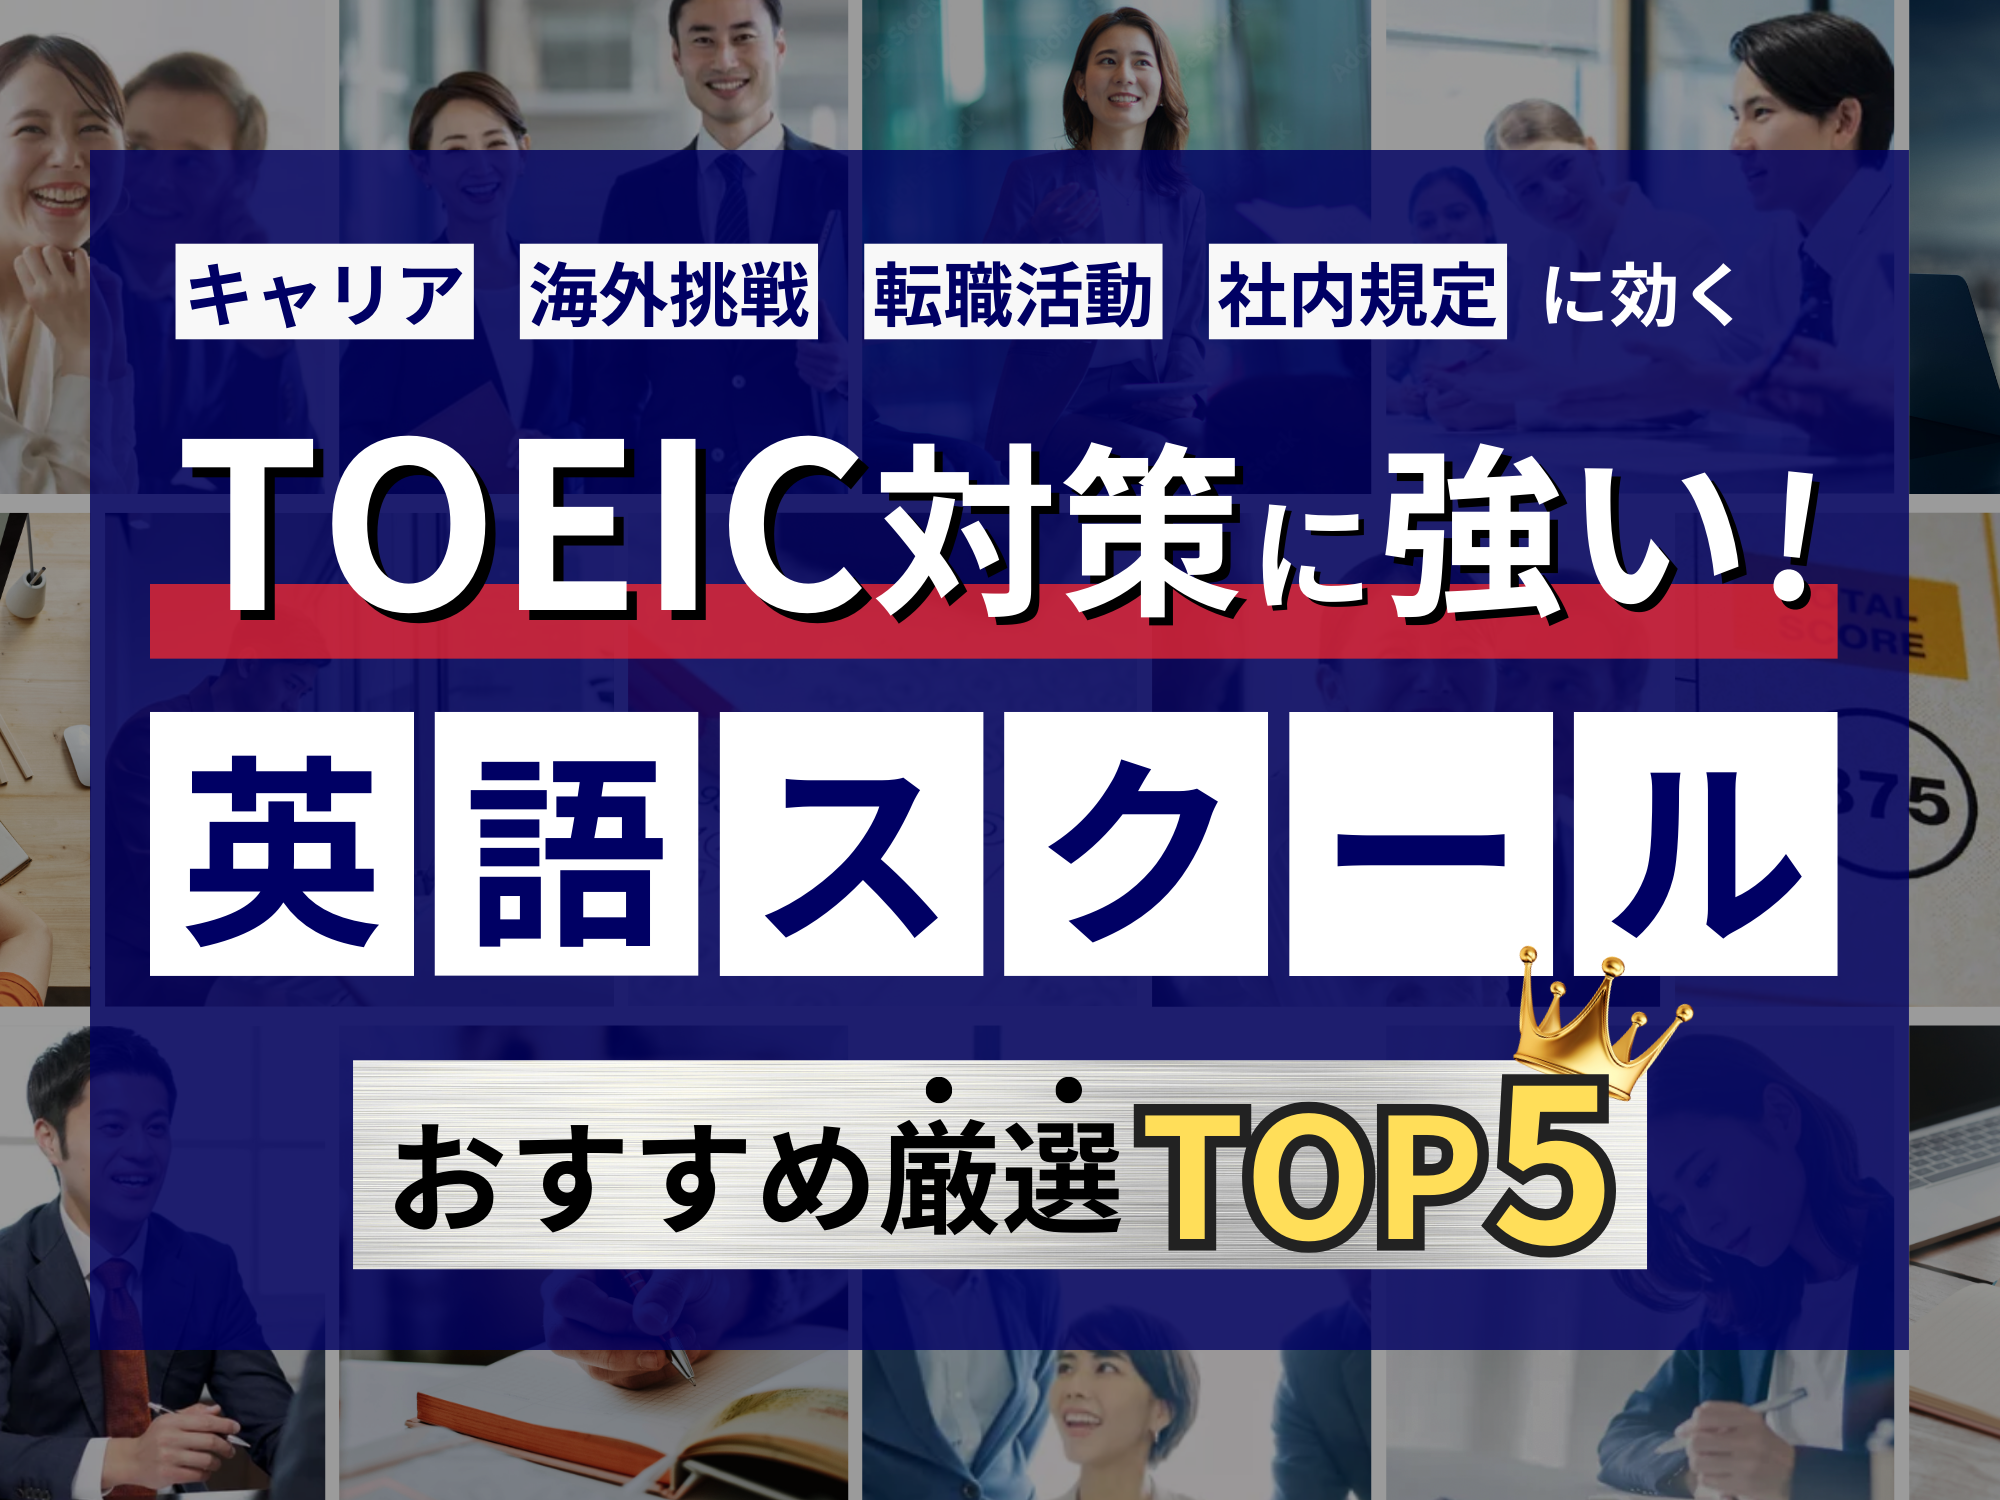
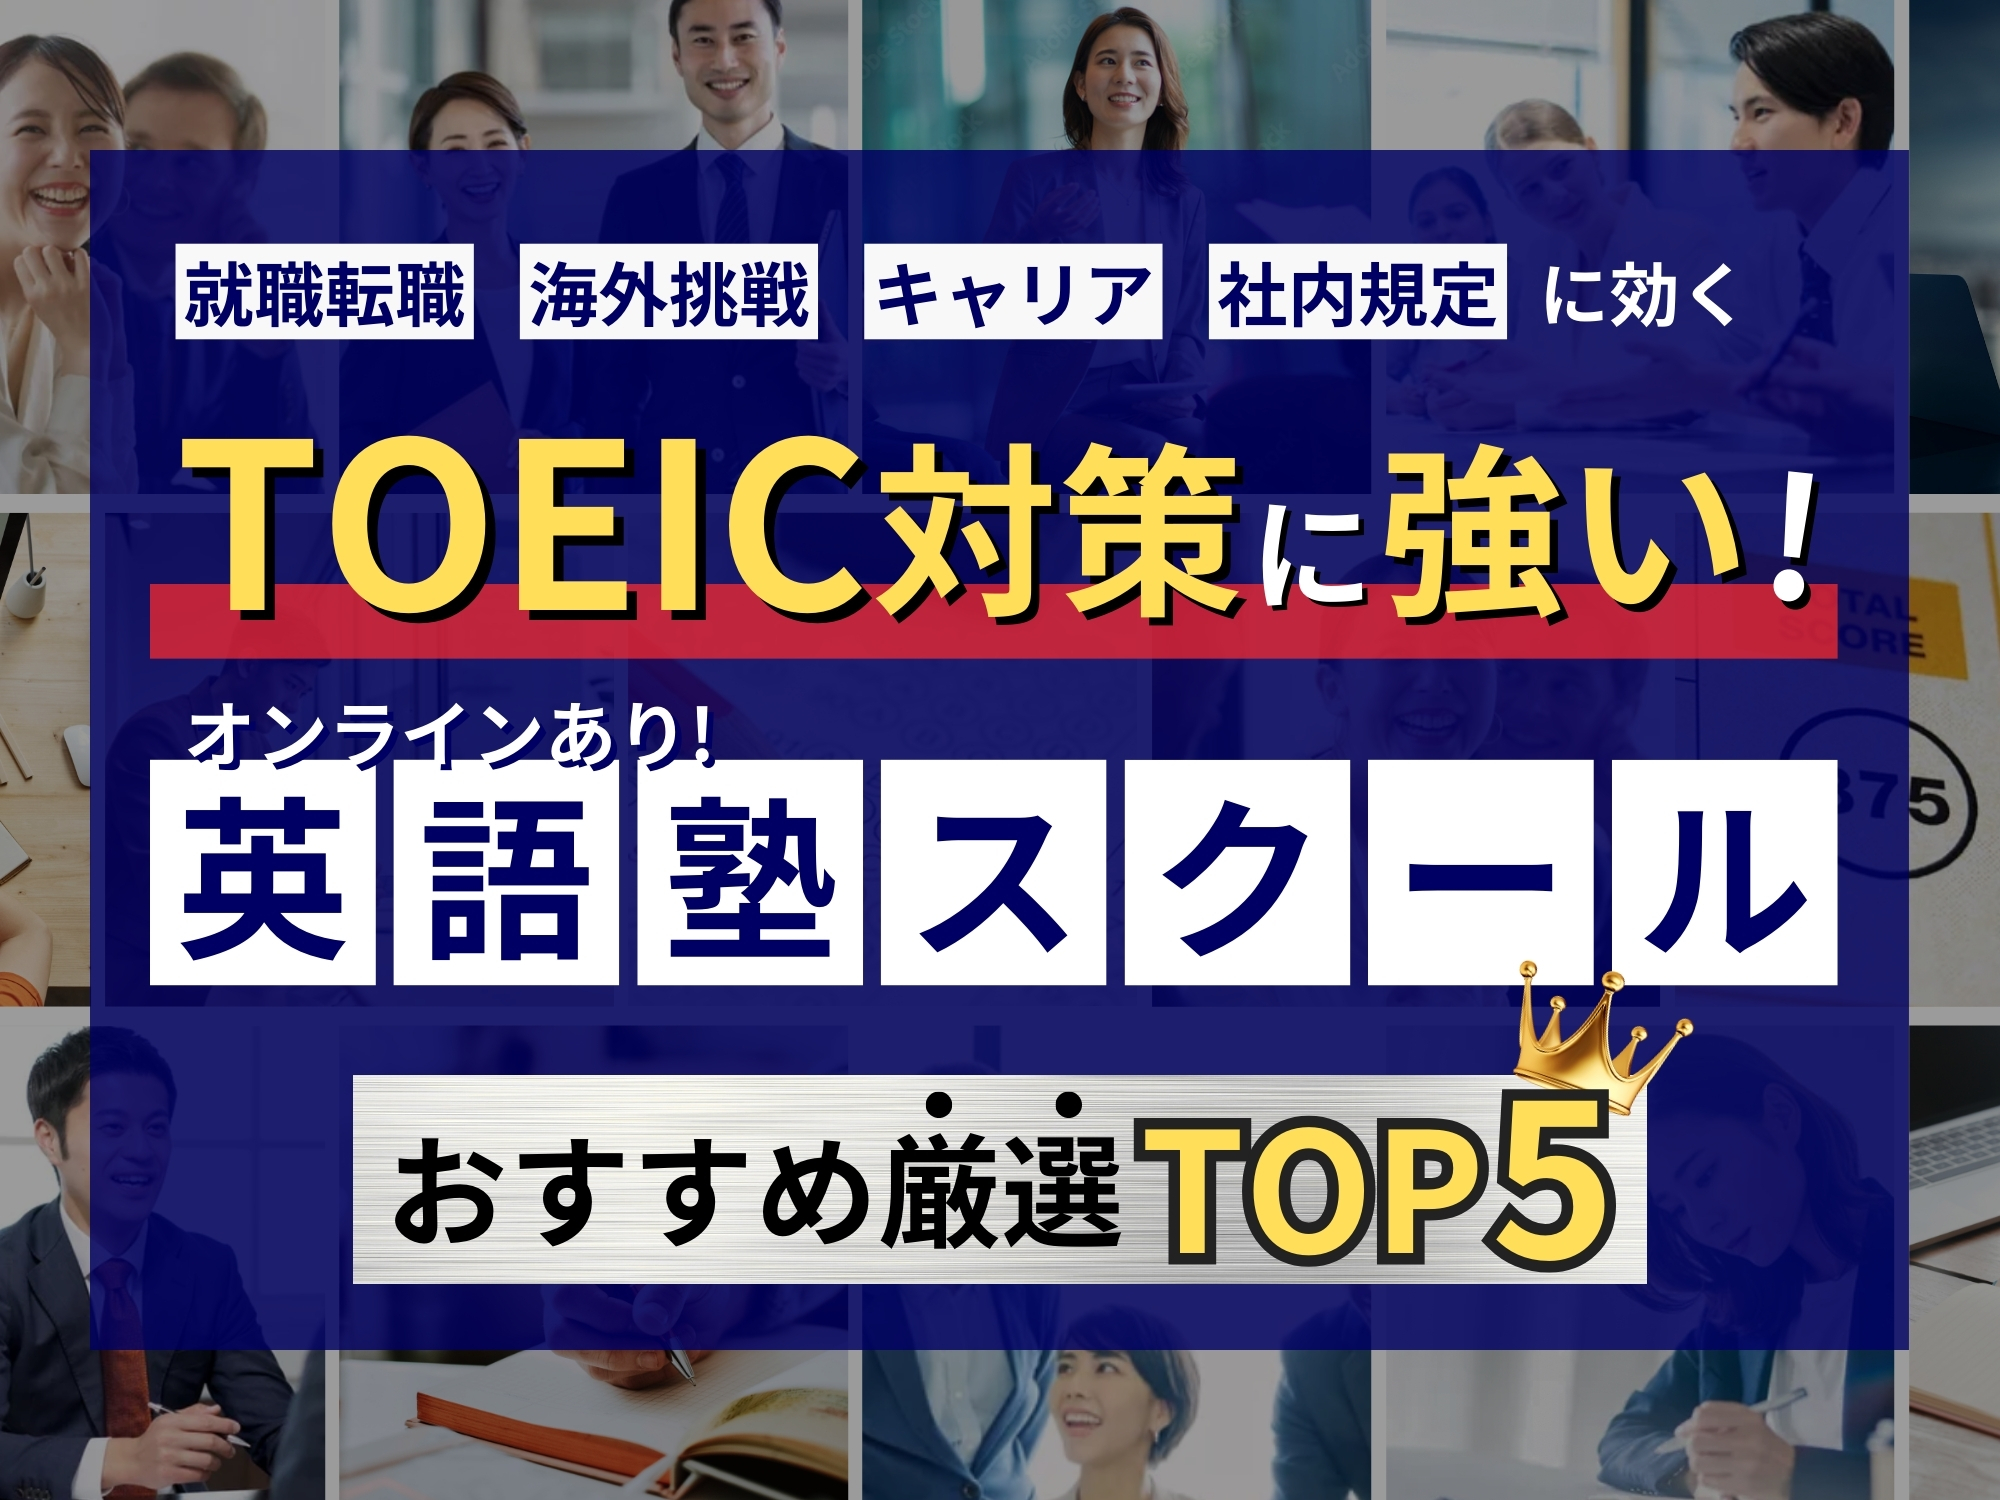
スクールLPのコーチングの文言修正

diff --git a/school/index.html b/school/index.html
@@ -662,7 +662,7 @@
       </div>
 
       <div class="wrap">
-        <div class="text-date">※2025年02月最新版</div>
+        <div class="text-date">※2025年03月最新版</div>
         <div class="type">
           <h2 class="type-ttl">
             <img src="../images/01_recommended-coating-is_school.png" alt="信頼できるおすすめのスクールは..." />
@@ -683,7 +683,7 @@
                   <div class="type-list-inner-content-wrap-copy">
                     <span
                       ><span class="txt-red">《当サイト限定》</span><span class="txt-marker">受講料最大30,000円割引</span>クーポンプレゼント中！<span class="txt-red">各種メディアで話題</span
-                      >の<span class="txt-marker">『TOEIC特化型』コーチングスクール!!</span>
+                      >の<span class="txt-marker">『TOEIC特化型』スクール!!</span>
                   </div>
                   <span class="type-list-inner-content-wrap-flex">
                     <!-- <a
@@ -724,7 +724,7 @@
                   </a>
                   <div class="type-list-inner-content-wrap-copy">
                     <span
-                      ><span class="txt-red">10,000件以上の相談実績！</span>豊富な英語コーチングノウハウと、海外留学事業と教育事業で培った<span class="txt-marker">安心できるコーチングスクール!</span
+                      ><span class="txt-red">10,000件以上の相談実績！</span>豊富な英語コーチングノウハウと、海外留学事業と教育事業で培った<span class="txt-marker">安心できるスクール!</span
                       ></span
                     >
                   </div>
@@ -766,7 +766,7 @@
                     <div class="logo"><img src="../images/presence_logo.png" /></div>
                   </a>
                   <div class="type-list-inner-content-wrap-copy">
-                    <span><span class="txt-red">短期間で学習の効果を最大化！</span>「学習する仲間」がいるから乗り越えられる</span><span class="txt-marker">2ヶ月のグループ英語コーチングスクール！</span></span>
+                    <span><span class="txt-red">短期間で学習の効果を最大化！</span>「学習する仲間」がいるから乗り越えられる</span><span class="txt-marker">2ヶ月のグループ型の英語スクール！</span></span>
                   </div>
                   <span class="type-list-inner-content-wrap-flex">
                     <!-- <a
@@ -806,7 +806,7 @@
                     <div class="logo"><img src="../images/tec-eigo-logo.png" /></div>
                   </a>
                   <div class="type-list-inner-content-wrap-copy">
-                    <span><span class="txt-red">スコアアップ保証と全額返金保証</span>を完備！初学者から高得点者まで<span class="txt-marker">専属コーチがマンツーマンで伴走！</span></span>
+                    <span><span class="txt-red">スコアアップ保証と全額返金保証</span>を完備！初学者から高得点者まで<span class="txt-marker">専属講師がマンツーマンで伴走！</span></span>
                   </div>
                   <span class="type-list-inner-content-wrap-flex">
                     <!-- <a
@@ -992,14 +992,14 @@
                     <span class="box-topranking-point-inner-check"></span>
                     <div class="box-topranking-point-inner-txt">
                       <span class="txt-marker">99%が完走する圧倒的なサポート体制</span>が魅力!!コスパの良い料金から、充実した保証制度がある<span class="txt-red"
-                        >TOEICのために生まれた英語コーチングスクール!</span
+                        >TOEICのために生まれた英語スクール!</span
                       >
                     </div>
                   </li>
                   <li class="box-topranking-point-inner">
                     <span class="box-topranking-point-inner-check"></span>
                     <div class="box-topranking-point-inner-txt">
-                      コーチングを受けたことがない人にも優しい<span class="txt-marker">『スコアアップ保証』と『全額返金保証』がある</span>ので安心して受講開始できる!!
+                      スクールを受けたことがない人にも優しい<span class="txt-marker">『スコアアップ保証』と『全額返金保証』がある</span>ので安心して受講開始できる!!
                     </div>
                   </li>
                   <li class="box-topranking-point-inner">
@@ -1044,7 +1044,7 @@
                   <li class="box-topranking-point-inner">
                     <span class="box-topranking-point-inner-check"></span>
                     <div class="box-topranking-point-inner-txt">
-                      <span class="txt-marker">理論に裏付けられたコーチング</span>を受けられるため、英語学習以外にも応用を利かせることのできる学習法が身に付く!
+                      <span class="txt-marker">理論に裏付けられた指導</span>を受けられるため、英語学習以外にも応用を利かせることのできる学習法が身に付く!
                     </div>
                   </li>
                   <li class="box-topranking-point-inner">
@@ -1160,7 +1160,7 @@
                         <li>
                           <span class="point-inner-num">1</span>
                           <div class="point-inner-txt">
-                            <span class="txt-marker"><span class="txt-red">最もコスパ良く</span>スコアアップしたい方におすすめの</span>TOEIC特化型のコーチングスクール!
+                            <span class="txt-marker"><span class="txt-red">最もコスパ良く</span>スコアアップしたい方におすすめの</span>TOEIC特化型のスクール!
                           </div>
                         </li>
                         <li>
@@ -1225,7 +1225,7 @@
                 <!--simple-campain-->
 
                 <div class="button button-yss">
-                  <p class="toptxt">無料体験コーチング実施中！<span class="txt-red">当日予約OK！</span></p>
+                  <p class="toptxt">無料カウンセリング実施中！<span class="txt-red">当日予約OK！</span></p>
                   <div class="cv shiny-btn">
                     <a
                       href="https://tec-eigo.jp/rank_school"
@@ -1295,17 +1295,17 @@
                     >のため、TOEICスコアを一番に上げたい方にはうってつけのサポート内容となっている。<span class="txt-marker">3ヶ月で700点台を達成する受講生が続出</span>しており、平日たったの30分の学習でなんと250点アップを実現した卒業生も!<br><br />
                     
                     <span class="txt-marker">コーチ全員がTOEICで英語力を上げてきたTOEIC指導のプロ集団</span
-                    >というのも嬉しい点。<span class="txt-red">24時間対応のチャットサポートと毎週1時間のコーチング面談</span>があり、初学者から高得点者まで的確なコーチングを受けられる。<br /><br />
+                    >というのも嬉しい点。<span class="txt-red">24時間対応のチャットサポートと毎週1時間のコーチング面談</span>があり、初学者から高得点者まで的確な指導を受けられる。<br /><br />
                     一人では勉強の継続が難しい人も<span class="txt-marker">「気づいたら勉強をしている状況」にまで学習習慣を作り上げてくれる</span
                       >ため、3ヶ月の受講期間が終わった後でも自律的な英語学習を実現できるでしょう。<br /><br />
                     また、<span class="txt-marker">スコアアップ保証と全額返金保証があるのはテック英語だけ!!</span
                     ><br /><br />
-                    <span class="txt-red">当サイト限定で最大30,000円の割引料金</span>で受講も可能！まずは気軽に無料コーチングを体験してみよう!
+                    <span class="txt-red">当サイト限定で最大30,000円の割引料金</span>で受講も可能！まずは気軽に無料カウンセリングを受けてみよう!
                   </p>
                 </div>
 
                 <div class="button button-yss button-bottom">
-                  <p class="toptxt">無料体験コーチング実施中！<span class="txt-red">当日予約OK！</span></p>
+                  <p class="toptxt">無料カウンセリング実施中！<span class="txt-red">当日予約OK！</span></p>
                   <div class="cv shiny-btn">
                     <a
                       href="https://tec-eigo.jp/rank_school"
